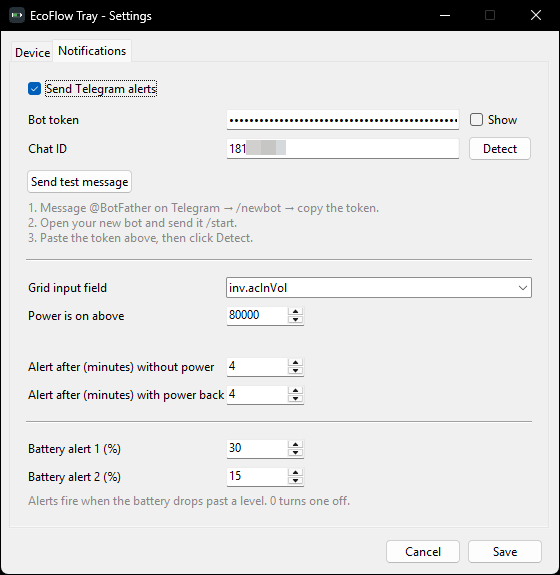
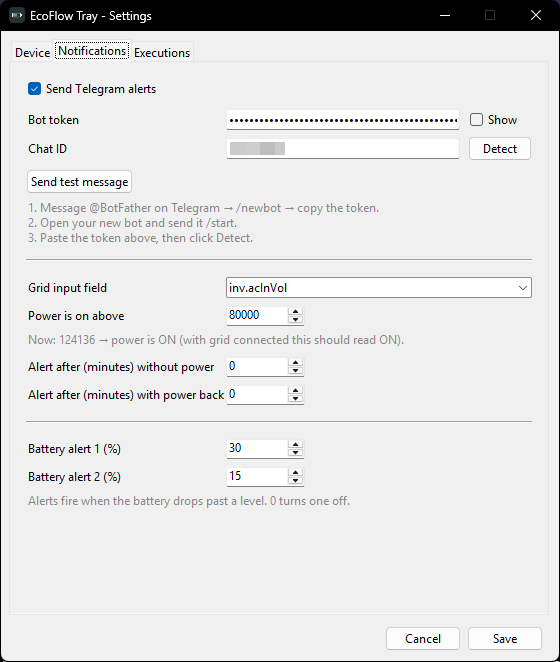
docs(readme): refresh the screenshots and add the Executions tab
Replaces the two settings screenshots with current ones and adds a third
for the Executions tab. Each now sits in the section that explains it,
at native resolution so the field labels stay readable, rather than as a
pair of thumbnails under the intro.

Changed region(s): [[0.0, 0.0, 1.0, 0.887], [0.6679, 0.9461, 1.0, 1.0], [0.0, 0.9757, 0.0304, 1.0]]

diff --git a/README.md b/README.md
@@ -26,8 +26,7 @@ It was written against a DELTA 2 Max and works with any device the Developer API
 - Credentials kept per user in `%APPDATA%`, with the secret key and bot token encrypted at rest through Windows DPAPI.
 
 <p align="center">
-  <img src="docs/screenshot.png" width="420" alt="Settings, Device tab">
-  <img src="docs/screenshot-notifications.png" width="420" alt="Settings, Notifications tab">
+  <img src="docs/screenshot.png" width="560" alt="The Device tab of the Settings window">
 </p>
 
 ## Download
@@ -69,6 +68,10 @@ Alerts run entirely from your machine. You create your own bot, so there is no s
 
 To send to a group instead, add the bot to it, post any message there, and click Detect.
 
+<p align="center">
+  <img src="docs/screenshot-notifications.png" width="560" alt="The Notifications tab, showing the Telegram fields, the watched grid input field and the two battery levels">
+</p>
+
 | Setting | What it does |
 | --- | --- |
 | Grid input field | The field watched to decide whether grid power is present. Defaults to `inv.acInVol`, detected from your device, with its live value shown underneath. If your unit offers `bms_emsStatus.chgLinePlug` ("AC cable connected", zero against non-zero), that is the most reliable choice of all. |
@@ -91,6 +94,10 @@ Both naming generations are recognised: `inv.acInVol`, `inv.inputWatts` and `pd.
 The four events that send a Telegram message can also start something on this PC: a shortcut, an executable, a batch file or a script. Point the **Power outage** slot at the `.lnk` you already double-click and it will run the moment the mains go.
 
 Open **Settings → Executions**, tick **Run programs on these events**, fill in the slots you care about, and save. An empty **Program** box means that event does nothing.
+
+<p align="center">
+  <img src="docs/screenshot-executions.png" width="560" alt="The Executions tab, with a program slot for each of the four events">
+</p>
 
 | Setting | What it does |
 | --- | --- |
